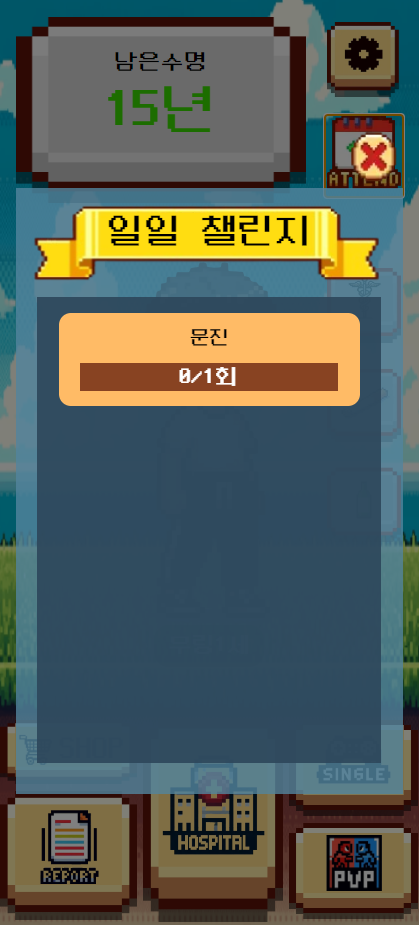
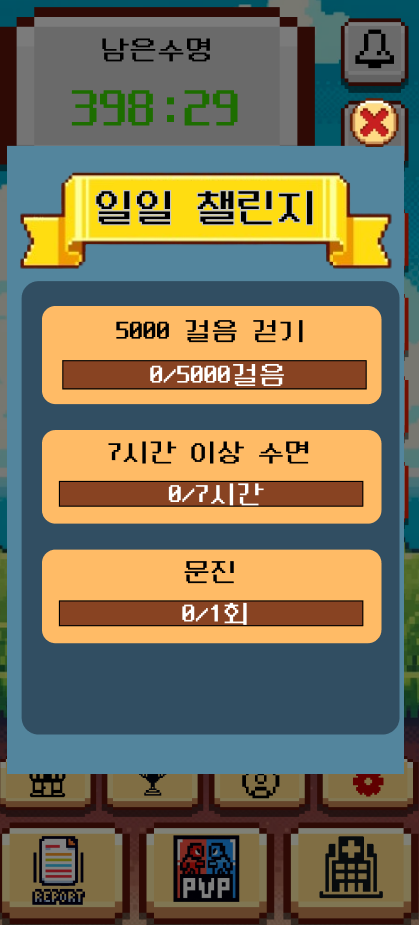
README update

diff --git a/README.md b/README.md
@@ -163,6 +163,12 @@
   <img src="./README/option0.png" width="200" height="400">
   <img src="./README/option1.png" width="200" height="400">
 
+- 일일 챌린지 화면
+
+  <img src="./README/challange0.png" width="200" height="400">
+  <img src="./README/challange1.png" width="200" height="400">
+  <img src="./README/challange2.png" width="200" height="400">
+
 - 사망 화면
 
   <img src="./README/dead.png" width="200" height="400">
@@ -198,6 +204,14 @@
   - 게임
   - 상점
   - 옵션
+- API 연동
+  - 메인 페이지
+  - 상점 목록 조회, 구매
+  - 메인 배경화면 변경
+  - 랭킹 조회
+  - 게임 결과 등록
+  - 디버프 조회
+  - 캐릭터 전제 정보 조회
 - Aixos 전역화
 - 이미지 및 아이콘 동적 전역화
 
